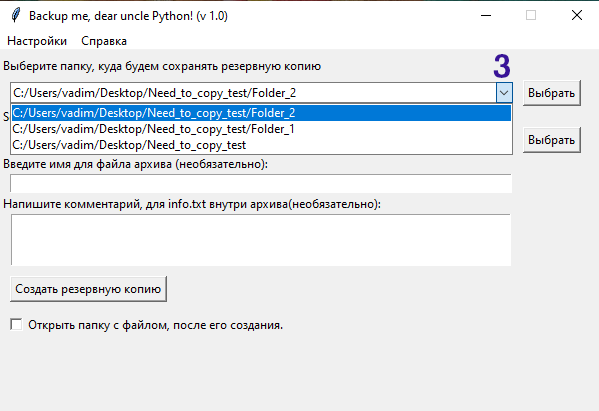
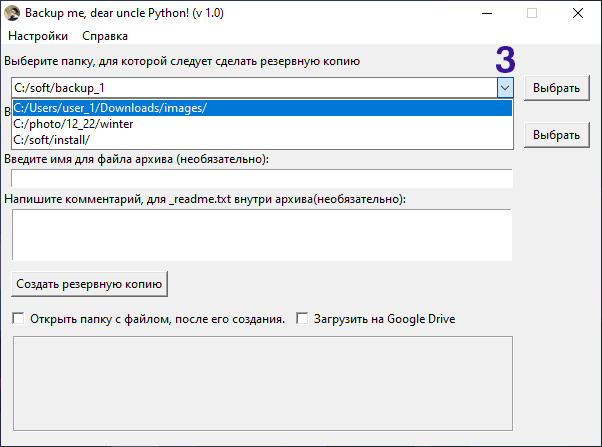
User manual was corrected.

Changed region(s): [[0.0, 0.0, 1.0, 1.0], [0.8414, 0.7591, 0.8715, 0.9635], [0.8715, 0.0, 0.9015, 0.0584]]

diff --git a/help/help_ru.html b/help/help_ru.html
@@ -20,6 +20,15 @@ rel="stylesheet" />
 <p>В поле <b>(5)</b> вы можете написать комментарий к резервной копии, который будет сохранен в файле _backup_readme.txt и добавлен в архив с файлами.</p>
 <p>При успешном создании архива будет выведено сообщение.<br /><br />Однако если вы используете недопустимые символы в пути сохранения файла или в префиксе имени, вы увидите сообщение об ошибке. В этом случае, для создания резервной копии проверьте правильность написания префикса файла и пути для его сохранения.</p>
 <p style="text-align: center;"><img src="images/4_ru.PNG"></p>
+
+<p> Вы можете так же загрузить свою резервную копию в свое хранилище Google Drive. Для загрузки архива на поставьте галочку в чекбоксе "Загрузить на Google Drive" <b>(6)</b>.
+<p style="text-align: center;"><img src="images/5_ru.PNG"></p>
+<p> При первом запуске приложения вы увидете что опция "Загрузить на Google Drive" недоступна. <b>(7)</b>
+Для использования этой функции вам необходимо авторизоваться на Google Drive через меню Настройки -> Google Drive. Далее нужно нажать на кнопку "Войти в аккаунт" и следовать инструкции.
+<p style="text-align: center;"><img src="images/6_ru.PNG"></p>
+<p>После успешной авторизации вы сможете загружать свои резервные копии в свое облачное хранилище Google Drive!</p>
+<br>
+<br>
 <hr>
 <p>По всем вопросам пишите по адресу <a href="mailto:vadimmmz@mail.ru">vadimmmz@mail.ru</a></p>
 </body>

diff --git a/help/help_en.html b/help/help_en.html
@@ -20,6 +20,15 @@ rel="stylesheet" />
 <p>In the field <b>(5)</b> you can write a comment to the backup copy, which will be saved in the file _backup_readme.txt and added to the archive with files.</p>
 <p>If the archive is created successfully, a message will be displayed.<br /><br />However, if you use invalid characters in the file save path or in the name prefix, you will see an error message. In this case, to create a backup copy, check the spelling of the file prefix and the path to save it.</p>
 <p style="text-align: center;"><img src="images/4_en.PNG"></p>
+
+<p>You can also upload your backup to your Google Drive storage. To download the archive to, check the box "Upload to Google Drive" <b>(6)</b>.
+<p style="text-align: center;"><img src="images/5_en.PNG"></p>
+<p> When you first launch the application, you will see that the "Upload to Google Drive" option is not available. <b>(7)</b>
+To use this feature, you need to log in to Google Drive via Settings -> Google Drive. Next, you need to click on the "Sign in" button and follow the instructions.
+<p style="text-align: center;"><img src="images/6_en.PNG"></p>
+<p>After successful authorization, you will be able to upload your backups to your Google Drive cloud storage!</p>
+<br>
+<br>
 <hr>
 <p>If you have any questions, write to <a href="mailto:vadimmmz@mail.ru">vadimmmz@mail.ru</a></p>
 <p></p>

diff --git a/creating_lang_dict_file.py b/creating_lang_dict_file.py
@@ -64,8 +64,8 @@ ru = {
 eng = {
     'auth_window_title': 'Google Drive authorization',
     'auth_window_label_1': 'Log in to Google Drive to be able to save your backups to your cloud storage',
-    'auth_window_sing_in': 'Sing in',
-    'auth_window_sing_out': 'Sing out',
+    'auth_window_sing_in': 'Sign in',
+    'auth_window_sing_out': 'Sign out',
     'auth_window_exception_basic': 'Something went wrong :(\n',
     'auth_window_exception': 'Log in to upload to disk',
     'auth_window_msg_out': 'You have logged out of your profile',
